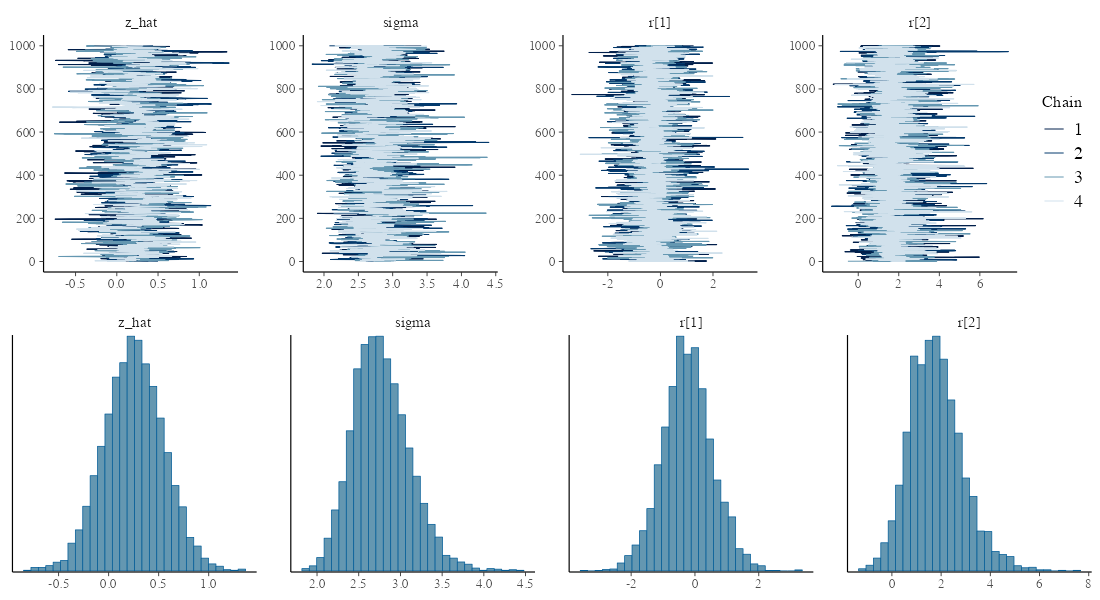
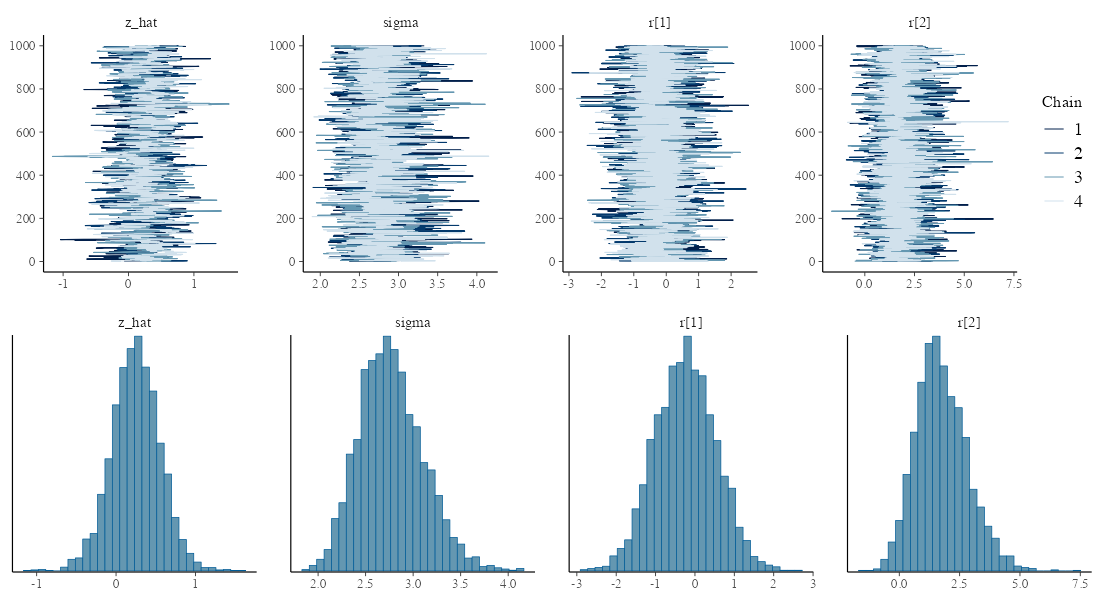
hugo

diff --git a/tokiomarine2023/8-hbm.html b/tokiomarine2023/8-hbm.html
@@ -165,6 +165,10 @@ model {
   r ~ normal(0, sigma);
   sigma ~ student_t(3, 0, 1);
 }
+
+generated quantities {
+  array[N] int yrep = binomial_rng(8, p);
+}
 </code></pre>
 </section>
 <section>
@@ -174,18 +178,18 @@ model {
 </span></span><span class="line"><span class="cl"><span class="n">fit</span> <span class="o">=</span> <span class="n">model</span><span class="o">$</span><span class="nf">sample</span><span class="p">(</span><span class="n">data</span> <span class="o">=</span> <span class="n">seeds_data</span><span class="p">,</span> <span class="n">seed</span> <span class="o">=</span> <span class="m">19937L</span><span class="p">,</span> <span class="n">step_size</span> <span class="o">=</span> <span class="m">0.1</span><span class="p">,</span> <span class="n">refresh</span> <span class="o">=</span> <span class="m">0</span><span class="p">)</span>
 </span></span><span class="line"><span class="cl"><span class="n">draws</span> <span class="o">=</span> <span class="n">fit</span><span class="o">$</span><span class="nf">draws</span><span class="p">(</span><span class="nf">c</span><span class="p">(</span><span class="s">&#34;z_hat&#34;</span><span class="p">,</span> <span class="s">&#34;sigma&#34;</span><span class="p">,</span> <span class="s">&#34;r[1]&#34;</span><span class="p">,</span> <span class="s">&#34;r[2]&#34;</span><span class="p">))</span>
 </span></span></code></pre></div><pre tabindex="0"><code> variable    mean  median   sd  mad      q5     q95 rhat ess_bulk ess_tail
-    lp__  -455.60 -455.30 9.34 9.25 -471.31 -441.11 1.00      784     1292
-    z_hat    0.25    0.25 0.30 0.30   -0.24    0.74 1.00      777     1266
-    sigma    2.77    2.75 0.34 0.33    2.26    3.37 1.00     1145     1581
-    r[1]    -0.23   -0.25 0.78 0.74   -1.51    1.08 1.00     3484     2638
-    r[2]     1.79    1.72 1.09 1.06    0.17    3.78 1.00     4776     2441
-    r[3]     1.74    1.65 1.07 0.99    0.17    3.66 1.00     4304     2656
-    r[4]    -3.73   -3.54 1.60 1.49   -6.69   -1.51 1.00     4847     2537
-    r[5]    -2.20   -2.13 1.02 1.01   -4.00   -0.65 1.00     4411     2449
-    r[6]    -2.17   -2.10 1.02 0.95   -4.00   -0.64 1.00     4336     2545
-    r[7]     0.92    0.90 0.87 0.85   -0.45    2.40 1.00     4167     2377
+    lp__  -455.85 -455.48 9.21 9.27 -471.57 -441.72 1.00      834     1563
+    z_hat    0.25    0.25 0.31 0.29   -0.25    0.74 1.00      729     1431
+    sigma    2.77    2.74 0.34 0.34    2.26    3.35 1.00     1182     2360
+    r[1]    -0.24   -0.24 0.77 0.78   -1.47    1.02 1.00     2869     2766
+    r[2]     1.76    1.66 1.07 1.06    0.16    3.67 1.00     4692     2672
+    r[3]     1.77    1.69 1.09 1.03    0.17    3.75 1.00     4713     2417
+    r[4]    -3.74   -3.55 1.57 1.53   -6.53   -1.45 1.00     4865     3015
+    r[5]    -2.21   -2.11 1.07 1.03   -4.14   -0.65 1.00     4223     2252
+    r[6]    -2.19   -2.11 1.03 0.99   -4.00   -0.60 1.00     4408     2463
+    r[7]     0.93    0.88 0.89 0.88   -0.43    2.48 1.00     4135     3151
 
- # showing 10 of 303 rows (change via &#39;max_rows&#39; argument or &#39;cmdstanr_max_rows&#39; option)
+ # showing 10 of 403 rows (change via &#39;max_rows&#39; argument or &#39;cmdstanr_max_rows&#39; option)
 </code></pre>
 </section>
 <section>
@@ -200,6 +204,7 @@ model {
 をJupyterで開き、スライド説明に沿って実行していこう。</p>
 <p>100個体の植物から8つずつ種を取り、発芽した数を観察。</p>
 <img src="figure/overdispersion-1.png" alt="plot of chunk overdispersion">
+<img src="figure/stan-glmm-ppc-1.png" alt="plot of chunk stan-glmm-ppc">
 
 </section>
 <section>
@@ -214,7 +219,7 @@ model {
 </span></span><span class="line"><span class="cl">  <span class="n">X</span> <span class="o">=</span> <span class="nf">rnbinom</span><span class="p">(</span><span class="n">samplesize</span><span class="p">,</span> <span class="n">size</span> <span class="o">=</span> <span class="n">.n</span><span class="p">,</span> <span class="n">prob</span> <span class="o">=</span> <span class="n">.p</span><span class="p">)</span>
 </span></span><span class="line"><span class="cl"><span class="p">)</span>
 </span></span></code></pre></div><img src="figure/beer-overdispersion-1.png" alt="plot of chunk beer-overdispersion">
-
+<img src="figure/stan-beer-od-ppc-1.png" alt="plot of chunk stan-beer-od-ppc">
 </section>
 <section>
 <h2 id="ベイズ推定まとめ">ベイズ推定まとめ</h2>
